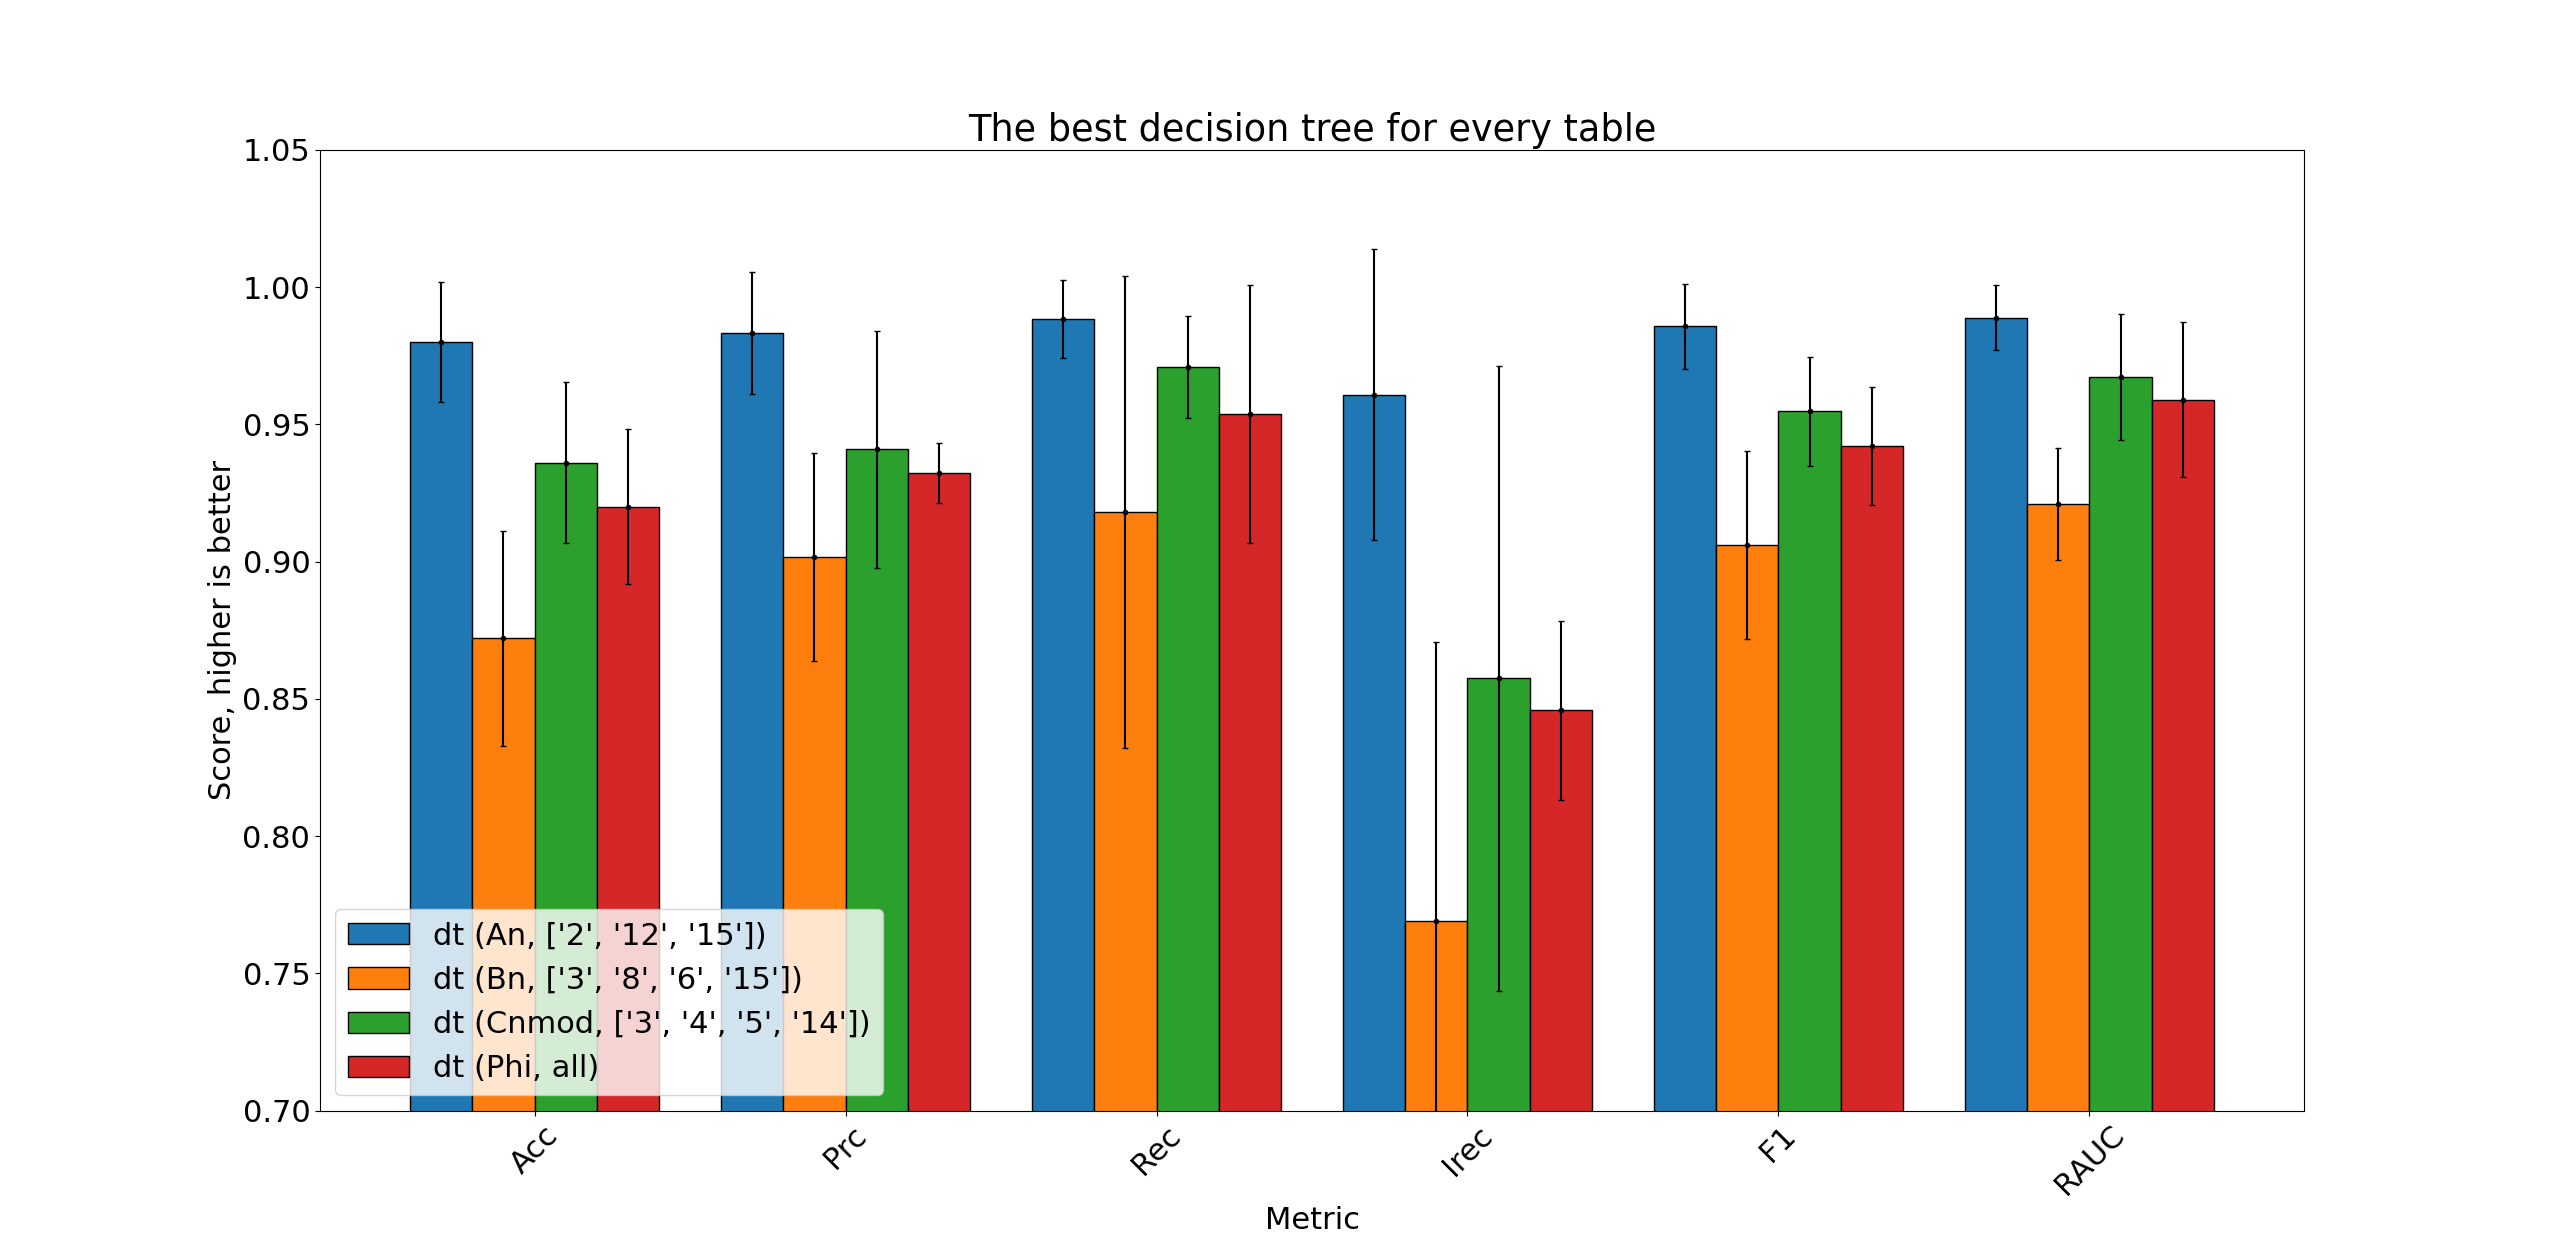
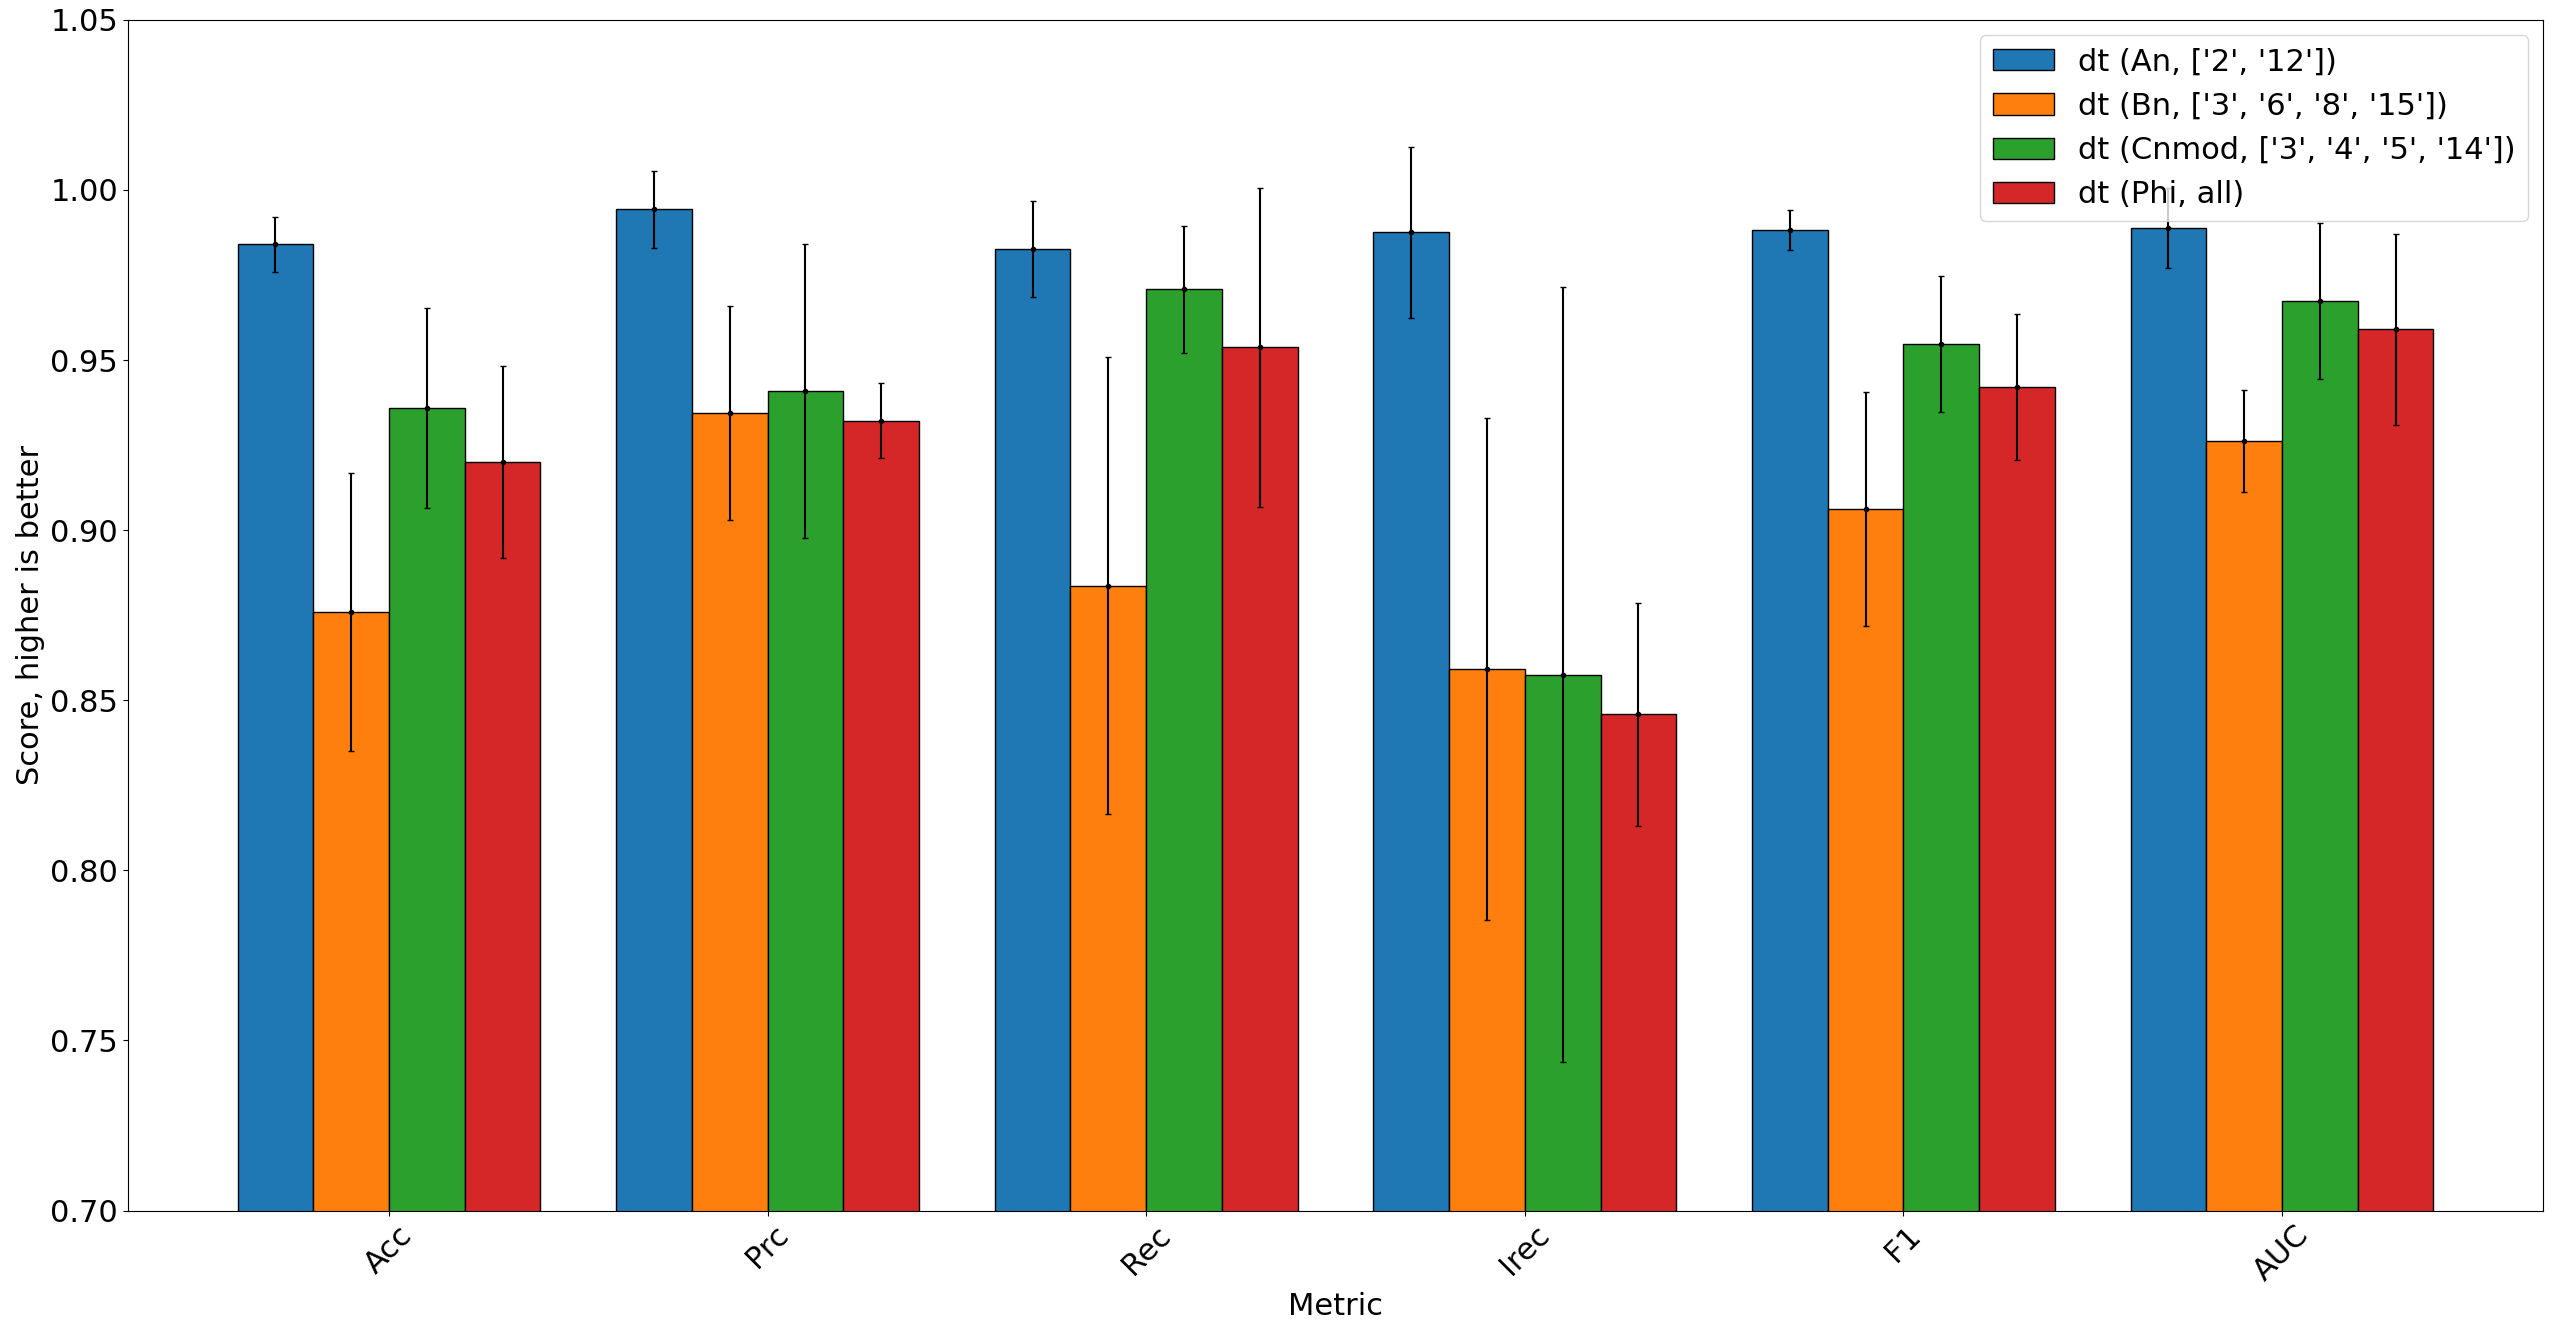
Changed some plots, corrected the rest of chapter qrp and added some more macros

diff --git a/src/qrp.tex b/src/qrp.tex
@@ -129,8 +129,7 @@ models built on \bn\ suffered.
 \subsubsection{\cnmod\ table}
 The \cnmod\ table combines the information present in \an\ and \bn, as we saw in \Cref{sec:dsets},
 \cnmod\ was expected to be one of the best tables to solve \qrp, but, as we will see in future
-sections, it consistently falls short of the \an\ table, and that is probably due to the
-introduction of the information carried by \bn.
+sections, it consistently falls short of the \an\ table, probably due to the introduction of the information carried by \bn.
 \begin{figure}[h!]
 	\centering
 	\includegraphics[width=\linewidth]{img/Cnmod_corr_matrix.png}
@@ -143,9 +142,6 @@ As we can see in \Cref{fig:cnmod-corr} the correlation matrix for \cnmod\ is ver
 	\item Harmonics between $10$ and $15$ are strongly correlated among themselves,
 	\item Harmonic number $4$ is strongly correlated with its multiples.
 \end{itemize}
-
-If we check the correlation between the harmonics and the labels \Cref{fig:cnmod-lcorr} we can see
-that the first harmonics explain really well the expected results.
 \begin{figure}[h!]
 	\centering
 	\includegraphics[width=\linewidth]{img/Cnmod_label_corr.png}
@@ -155,41 +151,38 @@ that the first harmonics explain really well the expected results.
 Looking at both \Cref{fig:cnmod-corr} and \Cref{fig:cnmod-lcorr}, we can conclude that two different
 approaches could be followed:
 \begin{itemize}
-	\item If harmonic number $2$ carries enough information it can be used in alongside one or
-	      more high-order harmonics,
-	\item Another route possible is to use harmonic number $3$ and some other low-order
-	      harmonics (potentially even the first one) alongside one low-order harmonic (e.g.,
-	      $14$).
+	\item Using harmonic number $2$ alongside one or more high-order harmonics,
+	\item Using harmonic number $3$ and some other low-order harmonics (potentially even the
+	      first one) alongside one high-order harmonic (e.g., $14$).
 \end{itemize}
-Analyzing the boxplot suggested that following the first path was not a promising idea since the
-variability of the second harmonic is not too high to the
+Analyzing the boxplot suggested that using harmonic number $2$ was not promising, due to the extreme
+concentration of the data.
 
-As we will see in a future section the choice that yielded the better performance is to use a
-dataset based on harmonic $3$.
-
-Before considering the last table let us stop once again to check the distribution of the
-dimensionality reduction for \cnmod.
+Before considering the last table let us stop once more to consider the distribution of \cnmod\
+after a round of \pca.
 \begin{figure}[h!]
 	\centering
 	\includegraphics[width=\linewidth]{img/Cnmod_distribution.png}
-	\caption{Data distribution for the \cnmod table after applying $\textsc{pca}$ dimensionality
+	\caption{Data distribution for the \cnmod\ table after applying \pca\ dimensionality
 		reduction} \label{fig:cnmod-dist}
 \end{figure}
 As we can see in \Cref{fig:cnmod-dist} the samples are characterized by a good enough distribution,
 we could easily identify clusters with a high degree of purity, apart from the one in the leftmost
 region of the image, which contains many points tagged as quench events and many points tagged as
-non quenches.
+non quenches. We can also identify a small outlier, which was removed when we considered the
+clustering approach; overall \cnmod\ doesn't have a distribution quite as good as \an\ did, but
+comparing it to \Cref{fig:bn-dist} or \Cref{fig:phi-dist}, has a much better topology.
 
-\subsubsection{\phin table}
-As we will see in further sections the \phin table did not perform exceptionally, but it consistently
-outperformed the one based on \bn. I believe that, as we saw with \bn, the root of the bad performance
-is standing in the fact that both tables have a high degree of homogeneity in the distribution of
-the samples, this can be seen quite clearly in \Cref{fig:phi-dist}.
+\subsubsection{\phin\ table}
+As we will see in further sections the \phin-based models consistently outperformed the ones based
+on \bn. As we saw with \bn, also in the case of \phin, the data distribution after a round of \pca\,
+shown in \Cref{fig:phi-dist}, is characterized by a series of high-impurity clusters where samples of the two
+classes are mixed together.
 
 \begin{figure}[h!]
 	\centering
 	\includegraphics[width=\linewidth]{img/Phi_distribution.png}
-	\caption{Data distribution for the \phin table after applying $\textsc{pca}$ dimensionality
+	\caption{Data distribution for the \phin\ table after applying $\textsc{pca}$ dimensionality
 		reduction} \label{fig:phi-dist}
 \end{figure}
 
@@ -197,71 +190,100 @@ the samples, this can be seen quite clearly in \Cref{fig:phi-dist}.
 
 As far as the correlation matrix is concerned we can see in \Cref{fig:phi-corr} that, contrarily to
 the correlation matrix of other tables, the amount of harmonics that are strongly correlated with
-each other is kept to a minimum. No real structure can be seen in this table as was the case of \an
-and \bn.
+each other is very low. No real structure can be seen in this table, as was the case of \an\ and \bn.
 \begin{figure}[h!]
 	\centering
 	\includegraphics[width=\linewidth]{img/Phi_corr_matrix.png}
-	\caption{The cross-correlation of the \phin harmonics} \label{fig:phi-corr}
+	\caption{The cross-correlation of the \phin\ harmonics} \label{fig:phi-corr}
 \end{figure}
-This structure leaves us with much more freedom as to which harmonics to pick to build datasets
-(compared with \an, \bn and \cnmod), the only things that really stand to the eye are that: harmonic
-number $2$ is strongly correlated with its odd multiples, harmonic number $4$ is strongly correlated
-with its multiples.
+Whenever we choose to use \phin\ to build datasets we are left with much more freedom during the
+feature extraction process, the only things that really stand to the eye are that:
+\begin{inparaenum}[(i)]
+	\item Harmonic number $2$ is strongly correlated with its odd multiples,
+	\item harmonic number $4$ is strongly correlated with its multiples.
+\end{inparaenum}
 
 Lastly, we can analyze the correlation between the harmonics and the label. As we can see in \Cref{fig:phi-lcorr} most of the harmonics have a good correlation with the expected solution, especially harmonic number $2$ and its odd multiples, and harmonics number $1$ and $12$.
 \begin{figure}[h!]
 	\centering
 	\includegraphics[width=\linewidth]{img/Phi_label_corr.png}
-	\caption{Label correlation for the \phin table} \label{fig:phi-lcorr}
+	\caption{Label correlation for the \phin\ table} \label{fig:phi-lcorr}
 \end{figure}
+
 This closes the brief exposition about the preprocessing steps for the various labels, now we will
 tackle the model selection procedure indicating which were the best models overall and which model
-we chose to solve $\qrp$.
+we chose to solve \qrp.
 
 \section{Results}
-Every model shown in this section has been tested using the pipeline that I talked about in
-\Cref{chp:problem}, due to some changes done around the time of writing, hyperparameter tuning has
-been done with $\ncv$ using both the normal randomized KFold as well as StratifiedKFold. While the
-performance difference is not as important as one might imagine, the final results were different
-enough to push me to move the pipeline to the use of StraifiedKFold. In the following I will only
-provide results for the models obtained using stratified sampling for fold construction and I will
-provide a comparison of the performance metrics only when the difference is deemed appreciable.
+Every model shown in this section has been tested using the pipeline that we introduced in
+\Cref{chp:problem}. In this chapter we will proceed as we did in \Cref{chp:ml} for the theoretical
+introduction of the models, therefore:
+\begin{itemize}
+	\item The first subsection delineates the performance of decision trees,
+	\item The second subsection delineates the performance of random forests,
+	\item The third subsection delineates the performance of our benchmarking model, the \svm,
+	\item The last subsection will introduce the tree aggregator model
+\end{itemize}
+At the end of the chapter we will talk about the best performing model and we will give the final
+results for \qrp.
 
 \subsection{Decision trees}
 As we already alluded to in previous sections we wanted to find a highly explainable model with good
-performance that could be used to solve $\qrp$.
+performance that could be used to solve \qrp, that is exactly why the development process started
+with \dts.
 
-We tried many different approaches where various tables were involved and different harmonics were
-being used, but the best table always remained \an, which performance are shown in
-\Cref{fig:dt-an-2-12-15-perf}. As we can see, even if we use the simple decision tree model, we are
-capable of explaining whether a sample is 'quench' or 'non quench' by using a very limited amount of
-harmonics (only three are necessary).
+With our experiments we tried different approaches and different datasets, after a careful analysis
+and many experiments we found that the best \dts were all based on \an, the confusion matrix for
+the best model, trained on harmonics $2$ and $12$, is shown in \Cref{fig:dt-an-2-12-cm}, as we can
+see, the total number of errors made by the model is of only $4$ total, $3$ false negatives and $1$
+false positive.
 \begin{figure}[h!]
 	\centering
-	\includegraphics[width=\linewidth]{img/An_2_12_15_cm_dt.png}
-	\caption{The performance for the \an model built on harmonics $2, 12, 15$} \label{fig:dt-an-2-12-15-perf}
+	\includegraphics[width=\linewidth]{img/An_2_12_cm_dt.png}
+	\caption{The performance for the \an model built on harmonics $2, 12, 15$}
+	\label{fig:dt-an-2-12-cm}
 \end{figure}
-If we look at \Cref{fig:dt-an-2-12-15-pt}, we can see that the structure of the tree is also
+The average performance of the model over the outer \cv\ folds is reported in \Cref{tbl:an-2-12-perf},
+as we can see, the numbers are already very solid, showing high average fold performance and low
+standard deviation.
+\begin{table}[t]
+	\caption{Average and standard deviation of the performance for the best \dt\ over the outer \cv\
+		fold.}\label{tbl:an-2-12-perf}
+
+	\bigskip
+	\setlength{\tabcolsep}{6pt}
+	\centering
+	\begin{tabular}{ccccccc}
+		\toprule
+		\textbf{}    & \textbf{Acc} & \textbf{Prc} & \textbf{Rec} & \textbf{Irec} & \textbf{F1} & \textbf{RAUC} \\
+		\midrule
+		Mean         & 0.984        & 0.994        & 0.983        & 0.988         & 0.988
+		             & 0.989                                                                                    \\
+		\textsc{std} & 0.008        & 0.011        & 0.014        & 0.025         & 0.006
+		             & 0.012                                                                                    \\
+		\bottomrule
+	\end{tabular}
+\end{table}
+These results are telling us that the model is able to perform on a high level in all of the testing
+metrics that we have chosen, moreover it's telling us that the delta, for every metric, between the
+best and the worst fold is very quite small, meaning that the model performed quite similar in all
+testing folds.
+
+If we look at \Cref{fig:dt-an-2-12-pt}, we can see that the structure of the tree is also
 extremely simple, contained in depth, using mostly harmonic number $2$ to perform the splits and
 having only one node where the impurity is not zero.
 \begin{figure}[h!]
 	\centering
-	\includegraphics[width=\linewidth]{img/An_2_12_15_pt_dt.png}
-	\caption{The structure of the tree built on harmonics $2, 12, 15$} \label{fig:dt-an-2-12-15-pt}
+	\includegraphics[width=\linewidth]{img/An_2_12_pt_dt.png}
+	\caption{The structure of the tree built on harmonics $2, 12, 15$} \label{fig:dt-an-2-12-pt}
 \end{figure}
-Many were the models tested in this phase but all of them fell short of the performance of the model
-shown in \Cref{fig:dt-an-2-12-15-pt}, that is enough of a reason why, we will not be covering them
-in depth. All we will do is plot the performance of the best decision tree built on every table to
-compare them against each other.
-\begin{figure}[h!]
+All other \dts\ tested fell short of the model based on \an\ that was just described, in
+\Cref{fig:best-dts} we can see a comparison of the best \dts built on every table, despite \cnmod\ being a bit closer than the rest of the pack, all of the models fail to perform quite as good as \an\ did.
+\begin{figure}[t]
 	\centering
 	\includegraphics[width=\linewidth]{img/best_dts.png}
 	\caption{Performance comparison of all the best decision trees} \label{fig:best-dts}
 \end{figure}
-
-As we can see in \Cref{fig:best-dts}, the performance for the best models built on tables \bn, \cnmod
-and \phin, are worse than the ones obtained by using \an, and the margin is quite important.
 \subsection{SVM}
 Before moving onward to the other models let's consider the $\svm$, as we said in \Cref{sec:svm}, it
 is a very high performance model, capable of finding the solution with a very high accuracy. All of
